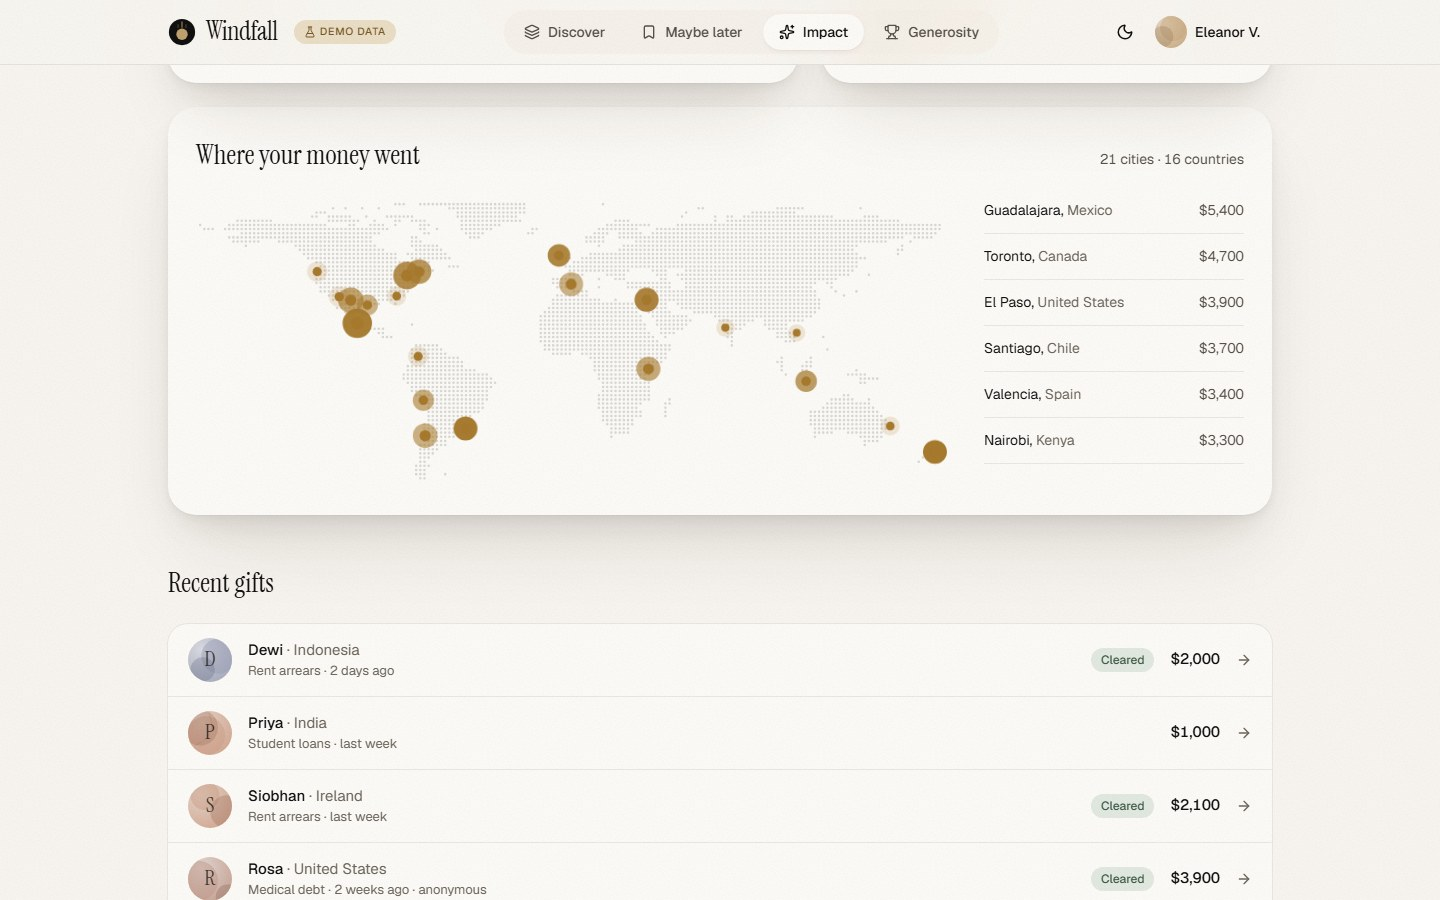
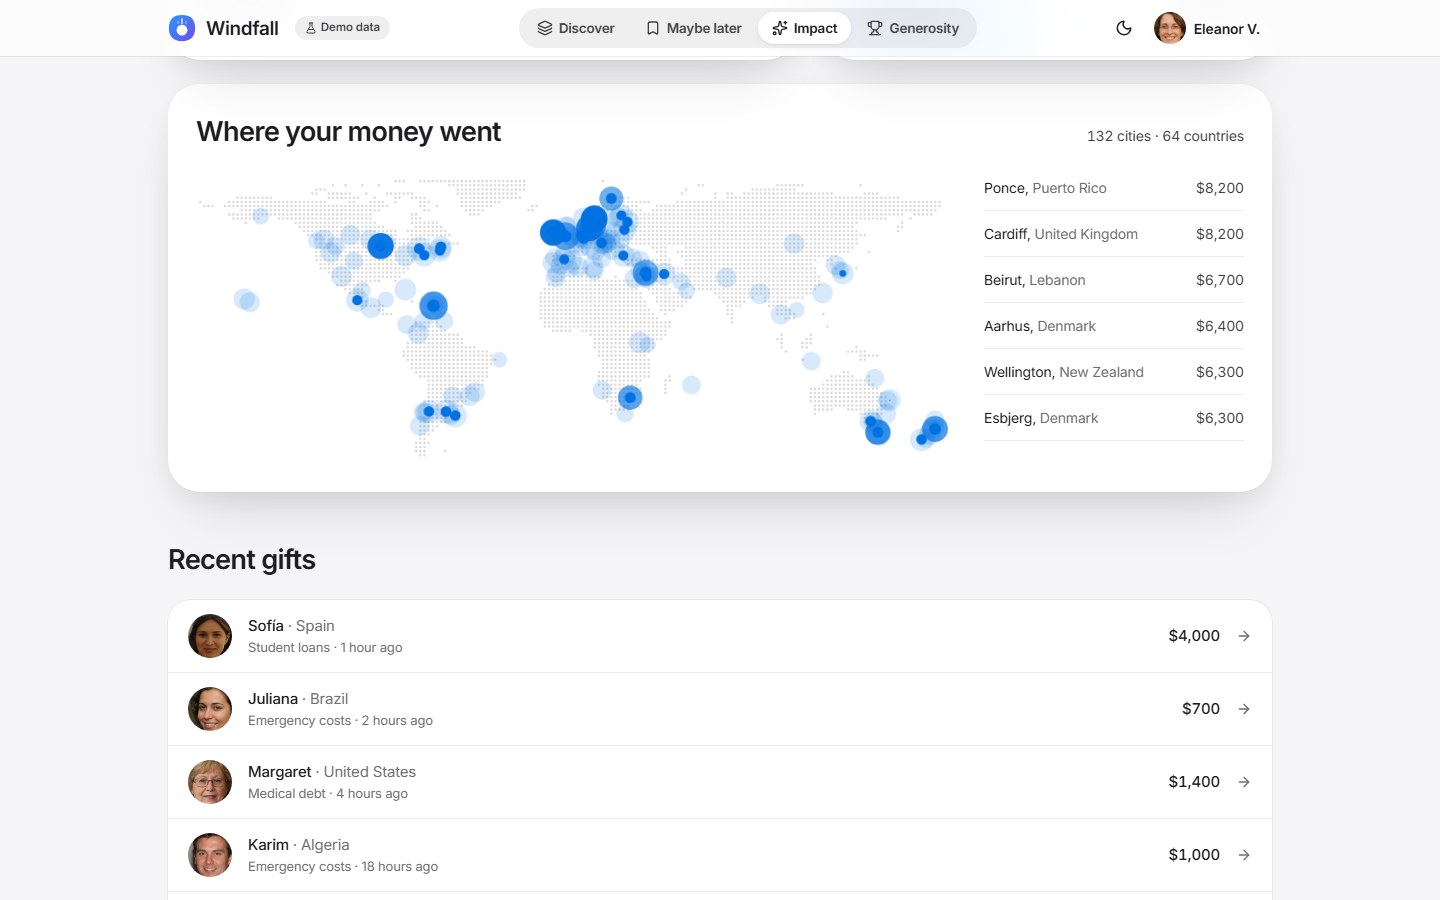
Update README, PLAN and screenshots for v2
Documents the Firebase architecture, roster pipeline and new design.

diff --git a/README.md b/README.md
@@ -6,13 +6,14 @@
 
 **Swipe right to give. Swipe up to clear someone’s debt.**
 
-A quietly luxurious, two-sided demo: Patrons swipe through stories from Seekers carrying medical debt,
+A two-sided giving app with an Apple-inspired interface: Patrons swipe through 261 people carrying medical debt,
 student loans, rent arrears and the wreckage of brave small businesses.
 
-**[Live demo → windfall.arnavrival12.workers.dev](https://windfall.arnavrival12.workers.dev)** · one-click demo login, no sign-up
+**[Live demo → windfall.arnavrival12.workers.dev](https://windfall.arnavrival12.workers.dev)** · sign up with Google/email or use a one-click demo persona
 
-> ⚠ **Demo only.** Every Seeker, Patron, story and total is fictional and labelled “Demo” in the UI.
-> No real money moves: gifts are recorded in an internal ledger.
+> ⚠ **Demo only.** Every Seeker, Patron, story and total is fictional and labelled “Demo”. Portraits are
+> **AI-generated (StyleGAN) faces of people who do not exist**, so no real person is ever depicted as being in debt.
+> No real money moves.
 
 <img src="docs/media/swipe.gif" width="300" alt="Swiping right to give $1,000, passing, undoing, then swiping up to clear a debt and seeing the celebration" />
 
@@ -26,152 +27,103 @@ student loans, rent arrears and the wreckage of brave small businesses.
 
 | Deck | Drag to give | Give sheet | Seeker dashboard | Dark mode |
 |---|---|---|---|---|
-| ![Swipe deck](docs/media/deck-mobile-light.jpg) | ![Card mid-drag with the GIVE stamp](docs/media/deck-drag-mobile.jpg) | ![Give sheet with amount chips](docs/media/give-sheet-mobile.jpg) | ![Seeker request dashboard](docs/media/seeker-mobile.jpg) | ![Deck in dark mode](docs/media/deck-mobile-dark.jpg) |
+| ![Swipe deck](docs/media/deck-mobile-light.jpg) | ![Card mid-drag with the Give stamp](docs/media/deck-drag-mobile.jpg) | ![Give sheet](docs/media/give-sheet-mobile.jpg) | ![Seeker dashboard](docs/media/seeker-mobile.jpg) | ![Deck in dark mode](docs/media/deck-mobile-dark.jpg) |
 
 | Discover (desktop) | Impact dashboard | Where the money went |
 |---|---|---|
-| ![Desktop deck with keyboard hints](docs/media/discover-desktop.jpg) | ![Impact dashboard](docs/media/impact-desktop.jpg) | ![Dotted world map of gifts](docs/media/impact-map.jpg) |
+| ![Desktop deck](docs/media/discover-desktop.jpg) | ![Impact dashboard](docs/media/impact-desktop.jpg) | ![Dotted world map](docs/media/impact-map.jpg) |
 
-## Features
+## What’s inside
+
+**Design — Apple-inspired**
+- San Francisco on Apple devices via the system font stack, Inter (self-hosted, preloaded, metric-matched fallback) everywhere else.
+- Apple system greys, a single blue accent, green for “cleared”, glass materials (translucent fill + saturated backdrop blur +
+  hairline highlight) for the nav bar, floating iOS-style tab bar, sheets, menus, toasts and photo chips.
+- Large continuous-feeling radii, soft diffuse shadows, full light/dark themes. All tokens live in [`src/design/`](src/design).
+- Photo-first cards with an Apple Music “Now Playing” treatment: the sharp portrait dissolves into a blurred, saturated copy of itself,
+  so the story text never covers a face.
+
+**People**
+- **274 fictional people** (261 Seekers + 13 Patrons) across ~60 countries, every one with an AI-generated portrait and a hand-cast
+  story, breakdown and updates. Portraits were fetched from a StyleGAN generator, minors and artefacts were filtered out, and each face
+  was cast by an agent following [a written brief](docs/CASTING.md).
 
 **Patrons**
-- **Swipe deck** with spring physics: cards follow the finger, rotate and tilt in 3D, fly off with the release velocity, and snap back with overshoot. *GIVE / PASS / CLEAR IT* stamps scale in with drag distance, and the two cards behind lean forward as the top card leaves.
-- **Give moment:** a bottom sheet with $1K / $10K / $100K / Custom (log-scale slider) and an anonymous toggle. Confirming fires a canvas coin burst, a liquid progress fill and a count-up ticker.
-- **Clear it:** swipe up to fund the full remaining amount, followed by a full-screen celebration with brand-coloured confetti and a shared-layout portrait transition.
-- **Undo:** Z or the Undo button flies the last card back in. Gifts can be reversed within 2 minutes, with compensating ledger entries.
-- **Filters:** category, country, amount range, *closest to cleared*, verified only.
-- **Story page:** the deck card expands into it via a shared layout. Shows the funding breakdown, verification, updates from the Seeker, and a report button.
-- **Impact dashboard:** total given, people helped, debts cleared, weekly giving streak, giving-over-time chart (with a table view), an interactive dotted world map, and a **shareable impact card** generated on a canvas (download, or share via the native share sheet).
-- **Generosity Index** leaderboard that rewards breadth over cheque size, with an option to appear anonymously.
-- **Maybe later** list, plus keyboard shortcuts: `←` pass · `→` give · `↑` clear · `Z` undo · `S` save · `Space` details.
+- Physics swipe deck (rotation + 3D tilt, velocity-aware flicks, overshoot snap-back, proportional Give/Pass/Clear stamps, stack lean).
+- Give sheet ($1K/$10K/$100K/Custom log slider, anonymous toggle) → coin burst, liquid progress fill, ticker.
+- Swipe up to clear → full-screen confetti celebration with a shared-layout portrait.
+- Undo (Z) for passes, saves and gifts (2-minute reversal), filters, story pages (shared-layout expand), impact dashboard with chart,
+  world map and shareable image card, Generosity Index leaderboard, Maybe later list, keyboard shortcuts.
 
 **Seekers**
-- **Six-step request flow:** story → amount breakdown → category and location → photo (R2) → proof upload, with mock *Pending → Verified* review → review and publish. A live card preview shows how Patrons will see you, and drafts autosave.
-- **Live dashboard** that polls for gifts, shows a toast when a new one arrives, and lets you post updates and thank-you notes.
-- **Dignity controls:** first name only (always), blurred photo, pause/resume or close a request.
+- Six-step request flow with a live card preview; photo resized on-device; simulated Pending → Verified review.
+- Live dashboard, gift wall (anonymous gifts never reveal the Patron), updates and thank-you notes, blur/pause/close controls.
 
-**Platform**
-- Every endpoint validates its input with **Zod**. Workers **rate limiting** applies on reads (120/min) and writes (30/min).
-- An atomic **double-entry ledger** on D1 (see below). Over-funding and partial writes are impossible.
-- Signed HMAC session cookies and a one-click demo login with a role and persona picker.
-- Designed empty, error and loading states throughout (shimmer skeletons, not spinners).
-- Full **dark mode**, `prefers-reduced-motion` respected everywhere (canvas effects are skipped entirely), and screen-reader announcements for gifts, passes and undo.
+## Architecture
 
-## Stack
+```
+Browser (React SPA, hosted on Cloudflare Workers static assets)
+  ├── Firebase Auth      Google, email/password, anonymous, demo personas
+  ├── Cloud Firestore    all data, live listeners, offline cache
+  │     └── firestore.rules   ← the gift ledger is enforced HERE
+  └── Firestore REST     public reads for the landing page (no SDK on first paint)
+```
 
-| Layer | Choice |
+Everything except hosting runs on **Firebase (free Spark plan)**. There is no server: each gift is one client transaction that writes
+
+| Document | Purpose |
 |---|---|
-| Frontend | React 19, Vite 8, TypeScript (strict), React Router, TanStack Query |
-| Styling | Tailwind CSS v4, design tokens in [`src/design/`](src/design) |
-| Motion | Motion (`motion/react`) via `LazyMotion` (async features) and a custom canvas particle engine |
-| UI primitives | Radix (Dialog, Slider, Switch, RadioGroup, DropdownMenu), Lucide icons |
-| API | Hono on Cloudflare Workers |
-| Data | Cloudflare D1 and Drizzle ORM (migrations via drizzle-kit) |
-| Storage | Cloudflare R2 for Seeker photos and proof documents (generated portraits as fallback) |
-| Tests | Vitest (incl. the ledger on real SQLite) and Playwright (swipe-flow smoke test, mobile + desktop) |
-| Lint | oxlint |
+| `gifts/{id}` | private ledger row (only the giver can read it) |
+| `requests/{id}` | `fundedCents += amount`, `giftCount += 1`, `lastGiftId` |
+| `requests/{id}/wall/{id}` | public gift wall — amount and (if not anonymous) name, **never** a Patron id |
+| `patronStats/{uid}` | leaderboard totals (1 gift/second rate limit) |
+| `stats/global` | platform totals |
 
-Deployment follows Cloudflare’s current recommendation for a Vite SPA plus API: **one Worker with static assets**
-via `@cloudflare/vite-plugin` (not Pages). `/api/*` runs the Worker first; everything else is the SPA.
-See [PLAN.md](PLAN.md) for the architecture.
+…and [`firestore.rules`](firestore.rules) checks every write against the others with `get()`/`getAfter()`, so a hand-crafted client
+can’t over-fund a request, fudge a total, double-undo, or unmask an anonymous gift. [`tests/rules`](tests/rules) attacks those rules in
+the Firestore emulator.
 
-### The ledger
-A gift is a single `D1.batch()` (one transaction):
-
-1. `INSERT` the gift, but **only if** the request is active and `funded + amount <= goal`
-2. `UPDATE` the request totals, guarded on the gift row existing
-3. Two `ledger_entries` (patron −, request +) and two `balances` upserts, with the same guard
-
-If step 1's guard fails, nothing else applies. Undo flips the gift to `reversed` exactly once and applies
-compensating entries guarded on that flip, so it is idempotent. The ledger always nets to zero, and each request's `funded_cents`
-always equals the sum of its settled gifts. [`tests/ledger.test.ts`](tests/ledger.test.ts) proves this by running the Worker's exact
-SQL against SQLite.
-
-### Payments integration point
-[`worker/lib/payments.ts`](worker/lib/payments.ts) defines a `PaymentProvider`:
-
-- `PAYMENTS_MODE=demo` (default): `DemoLedgerProvider`. Nothing leaves the internal ledger.
-- `PAYMENTS_MODE=stripe_test`: `StripeConnectProvider` (test keys only) creates a confirmed PaymentIntent with
-  `transfer_data.destination` set to the Seeker’s connected account, refunds when the ledger rejects a gift, and refunds on undo.
-  To finish it: store each Seeker’s `acct_…` id, collect a real PaymentMethod client-side, and add a webhook.
+The Firebase SDK is loaded lazily: app routes start it immediately; the landing page uses Firestore’s REST API for live stats and the
+people wall, renders a static hero shell before any JavaScript, and only loads Auth at idle.
 
 ## Local setup
-
-Requires Node 22.13+ (the ledger test uses the built-in `node:sqlite`).
 
 ```bash
 git clone https://github.com/Arnav-Dugad/windfall.git && cd windfall
 npm install
-cp .dev.vars.example .dev.vars          # then set SESSION_SECRET to a long random string
-npm run setup:local                     # apply D1 migrations locally and seed demo data
-npm run dev                             # http://localhost:5173 (SPA + Worker API in workerd)
+npm run dev                     # http://localhost:5173 — talks to the live Firebase project
 ```
 
-### Environment
-
-| Name | Where | Purpose |
-|---|---|---|
-| `SESSION_SECRET` | `.dev.vars` / `wrangler secret put` | **Required.** HMAC key for session cookies (16+ chars). |
-| `PAYMENTS_MODE` | `wrangler.jsonc` `vars` | `demo` (default) or `stripe_test`. |
-| `STRIPE_SECRET_KEY` | secret | Only for `stripe_test`; must be an `sk_test_…` key. |
-| `DB`, `MEDIA` | `wrangler.jsonc` bindings | D1 database and R2 bucket (if R2 is unbound, uploads are acknowledged but not stored). |
-| `API_LIMITER`, `WRITE_LIMITER` | `wrangler.jsonc` `ratelimits` | Workers Rate Limiting bindings. |
+To run against local emulators instead: `npm run dev:emulators` in one terminal and `VITE_FIREBASE_EMULATORS=1 npm run dev` in another.
 
 ### Scripts
 
 | Command | What it does |
 |---|---|
-| `npm run dev` | Vite dev server with the Worker running in workerd |
-| `npm run check` | oxlint, TypeScript (`tsc -b`) and Vitest |
-| `npm run test:e2e` | Builds, reseeds the local DB, previews, then runs the Playwright smoke test (mobile + desktop) |
-| `PLAYWRIGHT_BASE_URL=https://… npm run test:e2e` | Runs the same smoke test against a deployed URL |
-| `npm run db:generate` | Generates a new migration from `worker/db/schema.ts` |
-| `npm run db:seed:local` / `db:seed:remote` | Regenerates and applies the fictional seed (relative to “now”, so streaks look alive) |
-| `npx tsx scripts/build-shell.ts <url>` | Regenerates the static landing hero in `index.html` (run after changing the hero) |
-| `npx tsx scripts/render-assets.ts` | Re-renders the OG image, favicons and touch icons |
-| `npx tsx scripts/capture-media.ts <url>` | Re-captures the README screenshots and GIF |
+| `npm run check` | oxlint, TypeScript (`tsc -b`) and unit tests (Vitest) |
+| `npm run test:rules` | Security-rules tests in the Firestore emulator (needs Java) |
+| `npm run test:e2e` | Builds, previews and runs the Playwright smoke test (mobile + desktop) |
+| `PLAYWRIGHT_BASE_URL=https://… npm run test:e2e` | Same smoke test against a deployed URL |
+| `npm run seed` | Recreates the demo accounts (`firebase auth:import`) and rewrites all demo data in Firestore |
+| `npm run deploy:firebase` | Deploys `firestore.rules`, indexes and Auth providers |
+| `npm run deploy` | Builds and deploys the SPA to Cloudflare |
+| `npx tsx scripts/fetch-faces.ts N` → `process-faces.ts` → `prune-faces.ts` | Portrait pipeline |
+| `npx tsx scripts/build-shell.ts <url>` | Regenerates the static landing hero in `index.html` |
+| `npx tsx scripts/render-assets.ts` / `capture-media.ts <url>` | OG image & icons / README screenshots & GIF |
 
-## Deploy (Cloudflare)
+### Configuration
 
-```bash
-npx wrangler login
-npx wrangler d1 create windfall-db            # put the database_id in wrangler.jsonc
-npx wrangler r2 bucket create windfall-media
-npm run db:migrate:remote
-npm run db:seed:remote
-npx wrangler secret put SESSION_SECRET        # paste a long random string
-npm run deploy                                # vite build && wrangler deploy
-```
-
-The current deployment lives at **https://windfall.arnavrival12.workers.dev**. If you deploy under a different URL,
-update the absolute `og:url`, `og:image` and `canonical` tags in `index.html`.
+- Firebase project: `windfall-give-bb8b` (`.firebaserc`). The web config in `src/lib/firebase.ts` is public by design.
+- Demo personas sign in with the shared demo password in `src/lib/firebase.ts`; the seed resets them.
+- The seeder account’s password is generated into `.seed.env` (git-ignored) the first time you run `npm run seed`.
 
 ## Quality
 
-- **Tests:** 21 Vitest unit tests (money math, impact math, schemas, session cookies, ledger on SQLite) and an 8-case
-  Playwright smoke test (landing, sign-in, drag to give, pass, undo, impact, Seeker), all passing locally **and against production**.
-- **Lighthouse** (production, measured locally with Lighthouse 12):
-  desktop **100 / 100 / 100 / 100**; mobile Performance **88–95** (median ~90), with Accessibility, Best Practices and SEO all at **100** and CLS **0**.
-  The landing hero ships as static HTML (generated from the real render), so it paints before any JavaScript runs.
-  Fonts are preloaded with metric-matched fallbacks, and the motion engine and signed-in shell load asynchronously.
-- **Accessibility:** every gesture has a visible button and a keyboard shortcut, focus rings everywhere, Radix dialogs,
-  `inert` background cards, a live region for gift and undo announcements, chart table views, and AA contrast in both themes
-  (chart colours validated for 3:1 against their surfaces).
-
-## Project structure
-
-```
-shared/      domain types, Zod schemas, money + impact math, fictional seed data
-worker/      Hono app · db/schema.ts · lib/{ledger,payments,session,ratelimit}.ts · routes/*
-migrations/  drizzle-kit SQL
-src/
-  design/    tokens.css (colour, type, radii, shadows, timing) · motion.ts (springs) · fonts.css
-  components/ deck/ (SwipeDeck, SwipeCard, GiveSheet, Celebration) · effects/ (canvas particles) · impact/ · ui/
-  routes/    Landing, Login, Discover, Story, Impact, Leaderboard, Saved, seeker/*
-tests/       Vitest unit tests · e2e/ Playwright
-scripts/     seed, world dot-map, static shell, brand assets, README media
-```
+- **Unit tests:** 13 (money, impact math, schemas). **Rules tests:** 10 (valid gifts, over-funding, tampering, double undo,
+  privacy, role checks, request validation). **E2E:** 8 (landing, sign-in, drag-to-give, pass, undo, impact, Seeker).
+- Accessibility: every gesture has a button and a shortcut, Radix dialogs, `inert` background cards, live-region announcements,
+  table views for charts, AA contrast in both themes, `prefers-reduced-motion` respected everywhere.
 
 ---
 
-<sub>Windfall is a design and engineering demo. All people, stories, gifts and totals are fictional.</sub>
+<sub>Windfall is a design and engineering demo. All people, stories, portraits, gifts and totals are fictional.</sub>

diff --git a/PLAN.md b/PLAN.md
@@ -1,75 +1,31 @@
-# Windfall — Architecture & Build Plan
+# Windfall — Architecture
 
-## Deployment model
-Cloudflare's current recommendation for a Vite SPA + API is **one Worker with static assets**
-(via `@cloudflare/vite-plugin`), not Pages. `create-cloudflare --framework=react --platform=workers`
-was used to scaffold. The Worker serves `/api/*` (Hono) and everything else falls through to the SPA
-(`assets.not_found_handling = "single-page-application"`, `run_worker_first = ["/api/*"]`).
+## v2 (current): Cloudflare hosting + Firebase everything else
 
 ```
-Browser ──► Worker (Hono)
-             ├── /api/*  → routes → Drizzle → D1  (ledger, requests, users…)
-             │                    → R2 (photos, proof documents)
-             │                    → RateLimit binding (per IP / per user)
-             └── *       → static assets (React SPA, code-split)
+Browser ──► Cloudflare Workers static assets (React SPA, SPA fallback, _headers)
+   ├──► Firebase Auth        (Google, email/password, anonymous, demo personas)
+   ├──► Cloud Firestore      (data, live listeners, persistent offline cache)
+   │       └── firestore.rules — the gift ledger, validation, privacy, rate limit
+   └──► Firestore REST       (public landing-page reads without the SDK)
 ```
 
-## Bindings (wrangler.jsonc)
-| Binding | Type | Purpose |
-|---|---|---|
-| `DB` | D1 | All relational data, migrations in `migrations/` (drizzle-kit) |
-| `MEDIA` | R2 | Seeker photos + proof docs (optional; generated avatars otherwise) |
-| `API_LIMITER`, `WRITE_LIMITER` | Rate limiting | 120 req/min reads, 30 req/min writes |
-| `SESSION_SECRET` | Secret | HMAC key for signed session cookies |
-| `PAYMENTS_MODE` | Var | `demo` (internal ledger, default) or `stripe_test` |
-| `STRIPE_SECRET_KEY` | Secret (optional) | Only used when `PAYMENTS_MODE=stripe_test` |
+- **Free Spark plan only** (no Cloud Functions / Storage). Seeker photos are resized on-device and stored inline;
+  proof documents are never uploaded (review is simulated: pending → verified after 20s, enforced by rules).
+- **Ledger:** one client transaction per gift (gift, request totals, public wall entry, patron stats, global stats).
+  Rules cross-check every write with `get()`/`getAfter()`; tests in `tests/rules` run against the emulator.
+- **Seeding:** `firebase auth:import` creates demo accounts with fixed UIDs; a `windfall-seeder` account (password in the
+  git-ignored `.seed.env`) writes demo data through the normal SDK, permitted by an explicit rules clause.
+- **Performance:** static hero shell in `index.html`; app bundle requested after the shell paints; Firebase SDK in a lazy
+  chunk (immediate on app routes, idle on the landing page); fonts preloaded with metric-matched fallbacks.
 
-## Data model (integer cents, USD)
-- `users` — role (patron/seeker), display name, anonymity default, demo flag
-- `requests` — a Seeker's ask: story, breakdown JSON, goal/funded cents, status, verification, geo
-- `request_updates` — progress notes & thank-yous
-- `gifts` — every gift (give/clear), anonymous flag, status (`settled` / `reversed`), payment ref
-- `ledger_entries` — double-entry rows (patron −, request +) per gift / reversal
-- `balances` — materialised running balance per ledger account
-- `swipes` — pass / save per patron+request (deck exclusion, "Maybe later", undo)
-- `documents` — proof uploads with mock verification state
-- `reports` — trust & safety reports
+## Design system (`src/design/`)
+Apple-inspired: SF/Inter type, system greys, blue accent, green positive, glass materials (`.glass`, `.glass-thick`,
+`.glass-photo`), 12/22/32/34px radii, diffuse shadows, spring physics in `motion.ts`.
 
-**Consistency:** a gift is a single atomic `D1.batch()`: a guarded `UPDATE requests … WHERE funded + amount <= goal`,
-then gift/ledger/balance writes that only apply `WHERE changes() = 1` / `EXISTS(gift)`. Over-funding and partial
-writes are impossible; totals always equal the sum of ledger rows.
+## Roster
+274 fictional people with AI-generated portraits (`public/people/<hash>.webp`), cast photo-first by agents from a written
+brief (`shared/seed/people/*.ts`). Minors, multi-face images and artefacts were excluded.
 
-## Payments integration point
-`worker/lib/payments.ts` defines `PaymentProvider`. `DemoLedgerProvider` (default) settles instantly in the
-internal ledger. `StripeConnectProvider` (test mode, `PAYMENTS_MODE=stripe_test`) creates a PaymentIntent with
-`transfer_data.destination` = the Seeker's connected account. No real money moves in demo mode.
-
-## Auth
-Signed (HMAC-SHA256) `wf_session` cookie, HttpOnly, SameSite=Lax, Secure in prod, 7-day expiry.
-`POST /api/auth/demo` = one-click login with role/persona picker.
-
-## Frontend
-- React 19 + Vite 8 + TS strict, React Router (library mode), routes lazy-loaded.
-- Tailwind v4; **all design tokens in `src/design/`** (`tokens.css`: color/radius/shadow/type/duration/easing,
-  `motion.ts`: spring physics derived from the same names).
-- Motion (`motion/react`) for physics animation; `MotionConfig reducedMotion="user"` + explicit checks
-  for canvas effects (particles/confetti are skipped under reduced motion).
-- Radix primitives (Dialog, Slider, Switch, Tooltip, ToggleGroup) for accessible UI.
-- Fonts self-hosted via Fontsource: Instrument Serif (display) + Geist (UI), tabular numerals for money.
-
-```
-shared/        domain types, zod schemas, money math, seed data (used by worker + client + tests)
-worker/        Hono app: index.ts, db/schema.ts, lib/{session,ledger,payments,ratelimit,serialize}.ts, routes/*
-migrations/    drizzle-kit SQL migrations
-scripts/       seed SQL generator, world-dot-map generator, OG/icon renderer
-src/
-  design/      tokens.css, motion.ts
-  lib/         api client, format, haptics, hooks (reduced motion, magnetic, keyboard)
-  components/  ui/* primitives, deck/* (SwipeDeck, SwipeCard, Stamp, GiveSheet), effects/* (particles, confetti)
-  routes/      Landing, Login, Discover, Story, Impact, Leaderboard, Saved, seeker/{Dashboard,NewRequest,Manage}, NotFound
-tests/         vitest unit tests; e2e/ Playwright smoke test
-```
-
-## Build order
-1. Tokens + primitives → 2. Swipe deck + give flow (hero) → 3. API/ledger → 4. Remaining screens →
-5. Seed + migrations → 6. Lint/typecheck/tests → 7. Visual QA at 390px & 1440px → 8. Ship (GitHub + Cloudflare).
+## History
+v1 (2026-10-26) used a Hono API on Workers with D1 + R2; it was retired in favour of Firebase in v2.
